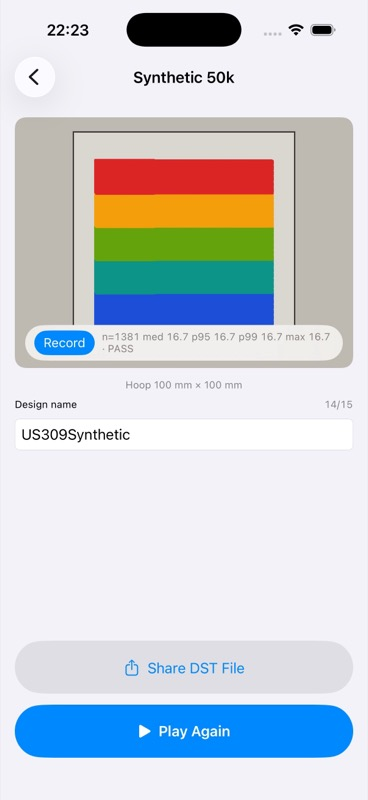
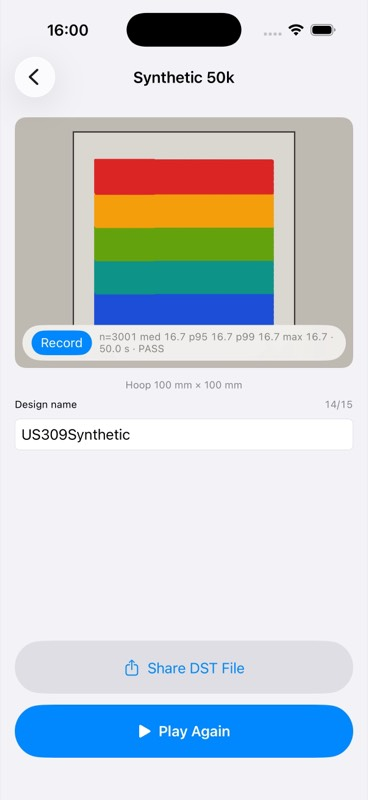
US-309: re-take the 50k screenshots after the readout text changed
The I3 and quotability fixes changed what the readout prints, so the
committed screenshots showed a format the app no longer produces. Re-taken
light and dark: n=3001 med 16.7 p95 16.7 p99 16.7 max 16.7 · 50.0 s · PASS
— 3 001 frames over 50.0 s, exactly 60.0 fps.

The re-take also verified three of the fixes on the running app rather
than only in tests: the Record capsule really is absent until a first run
has left stitches (I4 reproduced on the real screen), the mid-capture
caption really is static, and the duration field reads correctly.

diff --git a/docs/user-stories/milestone-3/US-309-fifty-thousand-stitch-exit-criterion.md b/docs/user-stories/milestone-3/US-309-fifty-thousand-stitch-exit-criterion.md
@@ -20,7 +20,7 @@ ADR-009 was decided on reference analysis (Catty's node-per-stitch collapse, Cat
 - [x] The planning-session baseline is recorded for the record: **`assembled()` costs 0.64 ms/call at 50k stitches, 0.17 ms at 10k, 0.023 ms at 1k** (release, M-series Mac). This is the number that shows option B was *affordable* and was rejected on prefix stability, not on speed — the interesting part for the thesis, and the correction to the intuition that both references' per-frame rebuild was simply "too slow". — **planning correction: already satisfied** at `DECISIONS.md` ADR-021, verbatim, so as written this criterion is a no-op. **It was not worthless, because re-measuring found the claim beside it is wrong**: those are **Mac** numbers and the ADR did not say so, and it then called 0.64 ms "roughly 10 % of a frame on A15-class hardware" — 0.64 / 16.67 is **3.8 %**, so the sentence applied an unstated ~2.6× Mac→A15 extrapolation on top of an unstated platform. Re-measured: 0.526 / 0.102 / 0.039 ms, same shape. ADR-021 is corrected in place and the device counterpart is a hand-off item.
 - [~] Pan/zoom at 50k stays within budget, with the mid-gesture path measured separately from the settled path. — **planning correction: the settled half is very nearly vacuous.** With `canUseRaster == true` there *is* no per-frame settled gesture path — ADR-028 commits the transform only in `onEnded`, so between gestures nothing changes and at commit there is exactly one re-bake. Restated as three measurements: mid-gesture frames, the single commit frame, and the settled steady state. The mid-gesture cost is recorded headlessly (`theEntirePlanIsLinearInStitchCount`); the device half is capture 4 of the hand-off, and is **the capture most at risk**.
 - [x] If measurement misses 60 fps, the **fallback is stated** — coarser colour-run batching, `Path` reuse, or the Metal renderer behind US-305's existing protocol — rather than the criterion being quietly reworded. ADR-009 kept that escape hatch open precisely for this. — stated as a four-rung ladder in ADR-029, in the order to be taken: tune `settleChunk`; decimate the mid-gesture `.entire` plan; reuse `Path`s across frames; then the Metal renderer behind `StagePreviewRenderer`, which is a milestone of its own and gets a backlog story rather than being taken inside a 4 h story.
-- [~] **Story-specific definition of done**: screenshots at 50k both fitted and zoomed in; the VoiceOver summary from US-307 still reads correctly at 50 000 stitches. — **The summary check passed, read off the running app**: `Embroidery stage, Synthetic 50k` / `50.001 stitches, 5 colours, 80,1 millimetres by 74,7 millimetres` — correct plural for both nouns, correct grouping, and the same English-words/German-numbers locale split US-307 recorded. Two screenshots taken (light and dark, fitted, with a `PASS` capture on screen). **The zoomed screenshot could not be produced here**: this toolchain has no pinch preset and cannot reach the accessibility adjustable action, exactly as US-307's journal recorded. It joins the device hand-off.
+- [~] **Story-specific definition of done**: screenshots at 50k both fitted and zoomed in; the VoiceOver summary from US-307 still reads correctly at 50 000 stitches. — **The summary check passed, read off the running app**: `Embroidery stage, Synthetic 50k` / `50.001 stitches, 5 colours, 80,1 millimetres by 74,7 millimetres` — correct plural for both nouns, correct grouping, and the same English-words/German-numbers locale split US-307 recorded. Two screenshots taken (light and dark, fitted, with a `PASS` capture on screen), **re-taken 2026-09-02** after the I3 and quotability fixes changed the readout's rendered text — so the thesis artefacts show what the app actually prints: `n=3001 med 16.7 p95 16.7 p99 16.7 max 16.7 · 50.0 s · PASS` (3 001 frames over 50.0 s is exactly 60.0 fps, and the summary above was re-read off this same run). The re-take also confirmed three fixes on the running app rather than only in tests: the Record capsule is **absent until a first run has left stitches** (I4, read off the real screen — the finding reproduced), the mid-capture caption is the **static** `capturing… hold ≥ 10 s, then Stop` with no per-frame churn (I3), and the duration field reads correctly with no `(short)` flag. **The zoomed screenshot could not be produced here**: this toolchain has no pinch preset and cannot reach the accessibility adjustable action, exactly as US-307's journal recorded. It joins the device hand-off.
 
 ## Test-first plan
 1. Headless throughput/complexity guard, written first and shown **red against a deliberately O(n²) append** — a passing performance test that was never seen failing proves nothing.
